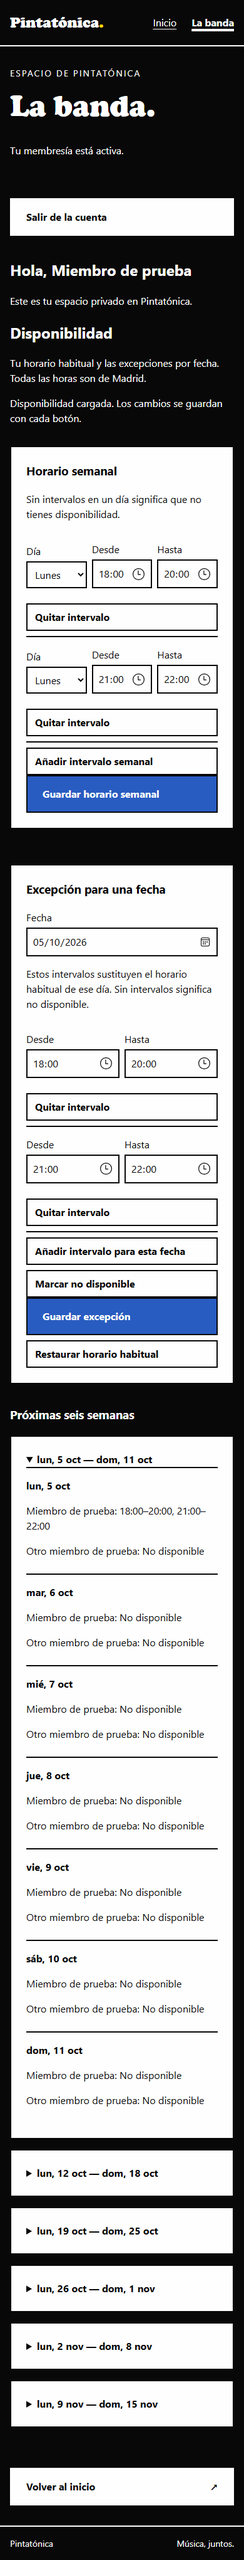
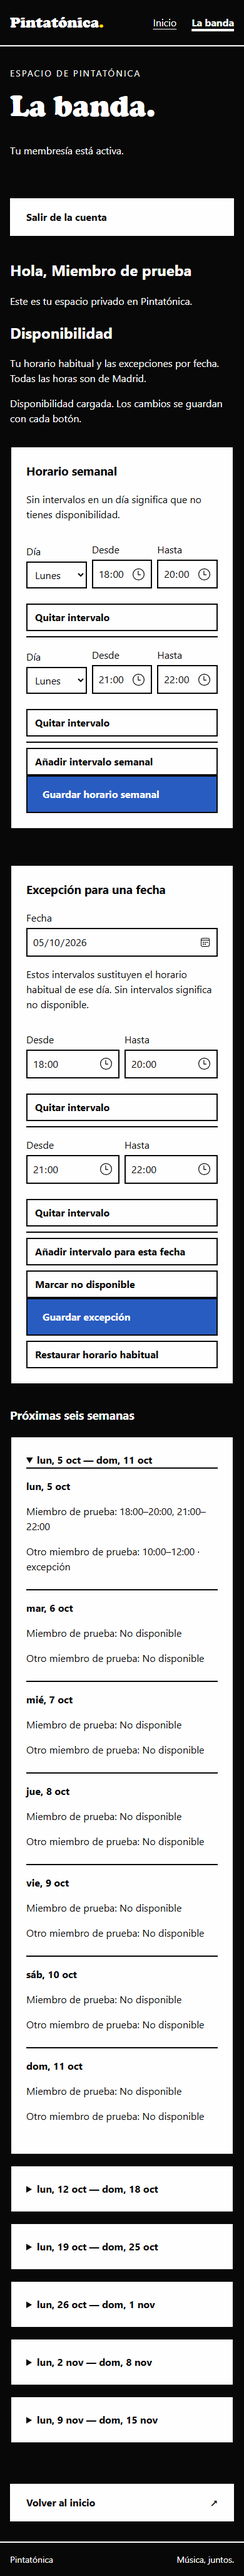
docs: archive GH-3 with complete persisted availability evidence

diff --git a/docs/delivery/completed/GH-3.md b/docs/delivery/completed/GH-3.md
@@ -20,7 +20,7 @@ Use civil Madrid dates and clock times rather than browser-local Date parsing. T
 - [x] Implement active-member availability persistence/UI, six-week day/member inspection and safe save/error/disposal behaviour.
 - [x] Verify direct data ownership/denial and browser saved/reloaded weekly/date/empty/restored flows with synthetic demo members at mobile/desktop.
 - [x] Reconcile affected arc42/runtime docs and delivery map; validate unchanged accepted product and current citations.
-- [ ] Run frozen install, security scan, full CI-derived verification and runtime screenshots; obtain independent Done audit.
+- [x] Run frozen install, security scan, full CI-derived verification and runtime screenshots; obtain independent Done audit.
 - [ ] Archive reconciled plan, push and require fresh final-head audit/CI/native preview; mark PR ready with screenshots, merge under scoped authorization and observe production.
 
 ## Test plan
@@ -33,6 +33,12 @@ All adopted Done dimensions apply: acceptance/completeness/tests/security, curre
 
 ## Verification progress
 
-CI-derived local verification passes 61 tests; browser demo scenarios pass at both viewports, with screenshots in ../evidence/GH-3/. Native/remote CI and independent audit remain pending. Browser runs caught and resolved snapshot acknowledgement overwriting saved status; a Vite module-instance mismatch in the ownership test was corrected to check the actual permission-denied result. Initialization loading is distinct from true unavailable data; metadata-only server confirmations are observed. No product semantic gap or model edit.
+CI-derived local verification passes 61 tests; browser demo scenarios pass at both viewports, with screenshots in ../evidence/GH-3/. At that early checkpoint native/remote CI and independent audit were pending; later results below supersede it. Browser runs caught and resolved snapshot acknowledgement overwriting saved status; a Vite module-instance mismatch in the ownership test was corrected to check the actual permission-denied result. Initialization loading is distinct from true unavailable data; metadata-only server confirmations are observed. No product semantic gap or model edit.
 
 Independent audit identified success text persisting over unsaved edits and a weekly acknowledgement discarding an exception draft. Per-editor dirty state now invalidates success text, preserves unrelated drafts across snapshots/saves and distinguishes saved work from other unsaved changes. Explicit date navigation asks before discarding a dirty date draft. Browser regressions prove both fixes and private workspace disposal/restart on persisted lifecycle events. The full verification lane is rerun after these corrections. Root README/operations now document the availability phase/harness.
+
+Integration audit then identified that the recorded browser flags did not prove date persistence after reload. The harness now reloads/reselects each replacement, empty override and restoration, asserting both form values and the effective band overview at both viewports. It also reads another member's saved date exception, not merely an empty placeholder. All scenarios pass. Repaired implementation b46da18 passed native preview and GitHub CI; anonymous preview entries match the verified build. Final archive-head checks/audit remain required, and actual integration/deployment outcomes are recorded on the issue/PR.
+
+## Integration handoff
+
+Fresh integration-stage auditor closed all implementation and persistence-evidence findings; the local deterministic Done case is satisfied. Affected architecture/runtime operations are reconciled and this plan is archived after that fold. Juan's explicit FF-through-9 authorization supplies the scoped judgement dispositions; no agent casts a GitHub approval. The final archived commit must pass its own CI/native preview and fresh independent audit before merge. Actual merge, production and final closure outcomes belong to issue #3 / PR #13; the final integration task remains unchecked here until those recorded outcomes.

diff --git a/docs/delivery/proposals/GH-3-refinement.md b/docs/delivery/proposals/GH-3-refinement.md
@@ -1,0 +1,38 @@
+# GH-3 — Keep rehearsal availability current
+
+## Problem, actor and priority
+
+ACT-MEMBER can enter /band but cannot yet maintain or inspect band availability. Juan selected GH-3 next and authorized sequential FF through GH-9 on 2026-10-05. GH-2 is merged/deployed. The existing roster/membership, Firebase rules, tokens and static host are available prerequisites.
+
+## Accepted scope and acceptance criteria
+
+Authority: UC-AVAILABILITY, FR-AVAILABILITY, BR-AVAILABILITY, BR-MEMBERSHIP, TERM-PLANNING-HORIZON, SB-DATE-EXCEPTION in docs/product/model.
+
+1. An active member saves recurring weekday availability with multiple separated intervals; reload retains the saved habit.
+2. A saved date replacement, an empty unavailable exception and removal/restoration follow SB-DATE-EXCEPTION/BR-AVAILABILITY and remain correct after reload, without changing the recurring habit.
+3. A six-week Madrid planning view shows effective saved availability by day and active member; other members' data is read-only.
+4. Invalid, failed and unsaved changes are never labelled successfully saved. Independent editor drafts survive unrelated acknowledgements; changing date explicitly handles an unsaved draft.
+5. UI admission/loss follows existing membership access; data-layer non-member/inactive/cross-member writes remain denied. Private listeners/content disappear when access ends or the page suspends.
+6. Existing tokens, responsive/native labelled controls, keyboard access, zero-cost topology and full automated verification remain intact. Capture synthetic runtime/screenshots separately from CI and anonymous production observations.
+
+Exclude opportunity calculation, confirmation, notifications, calendar sync, horizon/duration settings, repertoire and later musical workflows. No accepted intent change or new Product Change. Actual available times are member input, never invented production fixtures.
+
+## Ready evaluation
+
+| Dimension | Verdict |
+| --- | --- |
+| Title / description | Met: concrete unavailable member capability and outcome above. |
+| Actor / stakeholder | Met: ACT-MEMBER and Juan as delegated delivery reviewer. |
+| Priority | Met: next slice explicitly selected. |
+| Dependencies | Met: GH-2 deployed; existing scaffold/provider/data rules available. |
+| Acceptance criteria | Met: observable saved/reloaded and denied paths above. |
+| Scope | Met: availability only; exclusions explicit. |
+| Product rules | Met: accepted IDs and scenario; no policy generalized. |
+| Affected behaviour | Met: own edits and saved band planning view. |
+| Quality expectations | Met: QR-SECURITY, QR-USABILITY, QR-COST-OPERATIONS, QR-MAINTAINABILITY, QR-VERIFICATION, CON-SINGLE-BAND. |
+| Test impact | Met: effective-availability examples, rules denial and actual browser persistence/dirty-state/disposal. |
+| Existing decisions | Met: ADR-0001, arc42 infrastructure/access and canonical design tokens. |
+| Unknowns / risks | Met: no blocking product question; ordinary UI/storage choices delegated. Preview shares live Firebase, so test writes use only demo-pintatonica. |
+| Additional prerequisites | Met: accepted baseline, architecture/design and executable delivery path. |
+
+Ready. Native issue state remains OPEN until integration. Solution/tasks belong to the separate [plan](../completed/GH-3.md). Historical retrospective debt is disclosed in the remaining-slices readiness record and is non-blocking.

diff --git a/docs/delivery/evidence/GH-3/README.md b/docs/delivery/evidence/GH-3/README.md
@@ -1,6 +1,6 @@
 # GH-3 evidence
 
-[Plan](../../plans/GH-3.md), [issue #3](https://github.com/juangcarmona/pintatonica/issues/3), [PR #13](https://github.com/juangcarmona/pintatonica/pull/13).
+[Plan](../../completed/GH-3.md), [issue #3](https://github.com/juangcarmona/pintatonica/issues/3), [PR #13](https://github.com/juangcarmona/pintatonica/pull/13).
 
 [CI-derived transcript](checks.txt): frozen install, redacted security scan and full pnpm verify pass. 61 tests: 9 design, 18 security, 25 web/domain and 9 Firestore rules. Typecheck has zero diagnostics; two static pages build; 55 accepted ProductShape artifacts validate unchanged. Design checks and documentation lint pass; official architecture/plan citations are current. SDK bundle-size warning remains disclosed, not suppressed.
 
@@ -13,3 +13,5 @@ The first browser run exposed save-status acknowledgement being overwritten by a
 Native preview/current-head CI, independent audits, merge and production observations are separately recorded in PR #13 / issue #3 after actual completion. Product intent and later-slice exclusions are preserved. Same-day time controls require end after start; overnight spans are represented on their respective dates rather than an invented cross-date policy. No deployment, audit or finished-change approval is inferred from local tests.
 
 Audit-driven regressions additionally prove a changed draft is never labelled saved, a weekly save preserves an unrelated exception draft and clearing/restarting the private workspace on persisted page events works. Earlier audit findings are fixed with per-editor dirty state; full local verification is repeated after the fix. A changing date with an unsaved draft requires explicit discard confirmation.
+
+The final browser observations explicitly reload and reselect replacement, empty and restored date exceptions and assert their effective overview, plus another member's saved exception. This closes the integration auditor's previously unproven date-roundtrip task. [Implementation checks](implementation-head-checks.json) bind b46da18 to successful GitHub/native preview; [preview observations](native-preview.json) show signed-out mobile/desktop and byte-identical built entries. The new commit changes the harness/evidence only; final archived-head checks are recorded separately before merge.

diff --git a/docs/delivery/README.md b/docs/delivery/README.md
@@ -29,7 +29,7 @@ QR-SECURITY, QR-USABILITY, QR-MAINTAINABILITY, QR-COST-OPERATIONS, QR-VERIFICATI
 - [Executable web shell — refined issue draft](proposals/executable-web-shell-issue.md).
 - [Completed GH-1 implementation plan](completed/GH-1.md) and [merged PR #10](https://github.com/juangcarmona/pintatonica/pull/10).
 - [Archived GH-2 access plan](completed/GH-2.md) and [PR #12](https://github.com/juangcarmona/pintatonica/pull/12) record the active slice's verified implementation and integration handoff.
-- GitHub issues #1–#9 are published. GH-1/GH-2 are closed, merged and deployed. [Remaining-slice readiness](proposals/remaining-slices-readiness.md) records questions/inputs; [GH-3 plan](plans/GH-3.md) is the current work. Slices 4–9 remain unstarted.
+- GitHub issues #1–#9 are published. GH-1/GH-2 are closed, merged and deployed. [Remaining-slice readiness](proposals/remaining-slices-readiness.md) records questions/inputs; [GH-3 plan](completed/GH-3.md) is the current work. Slices 4–9 remain unstarted.
 
 ## Product gaps and delivery risks
 
